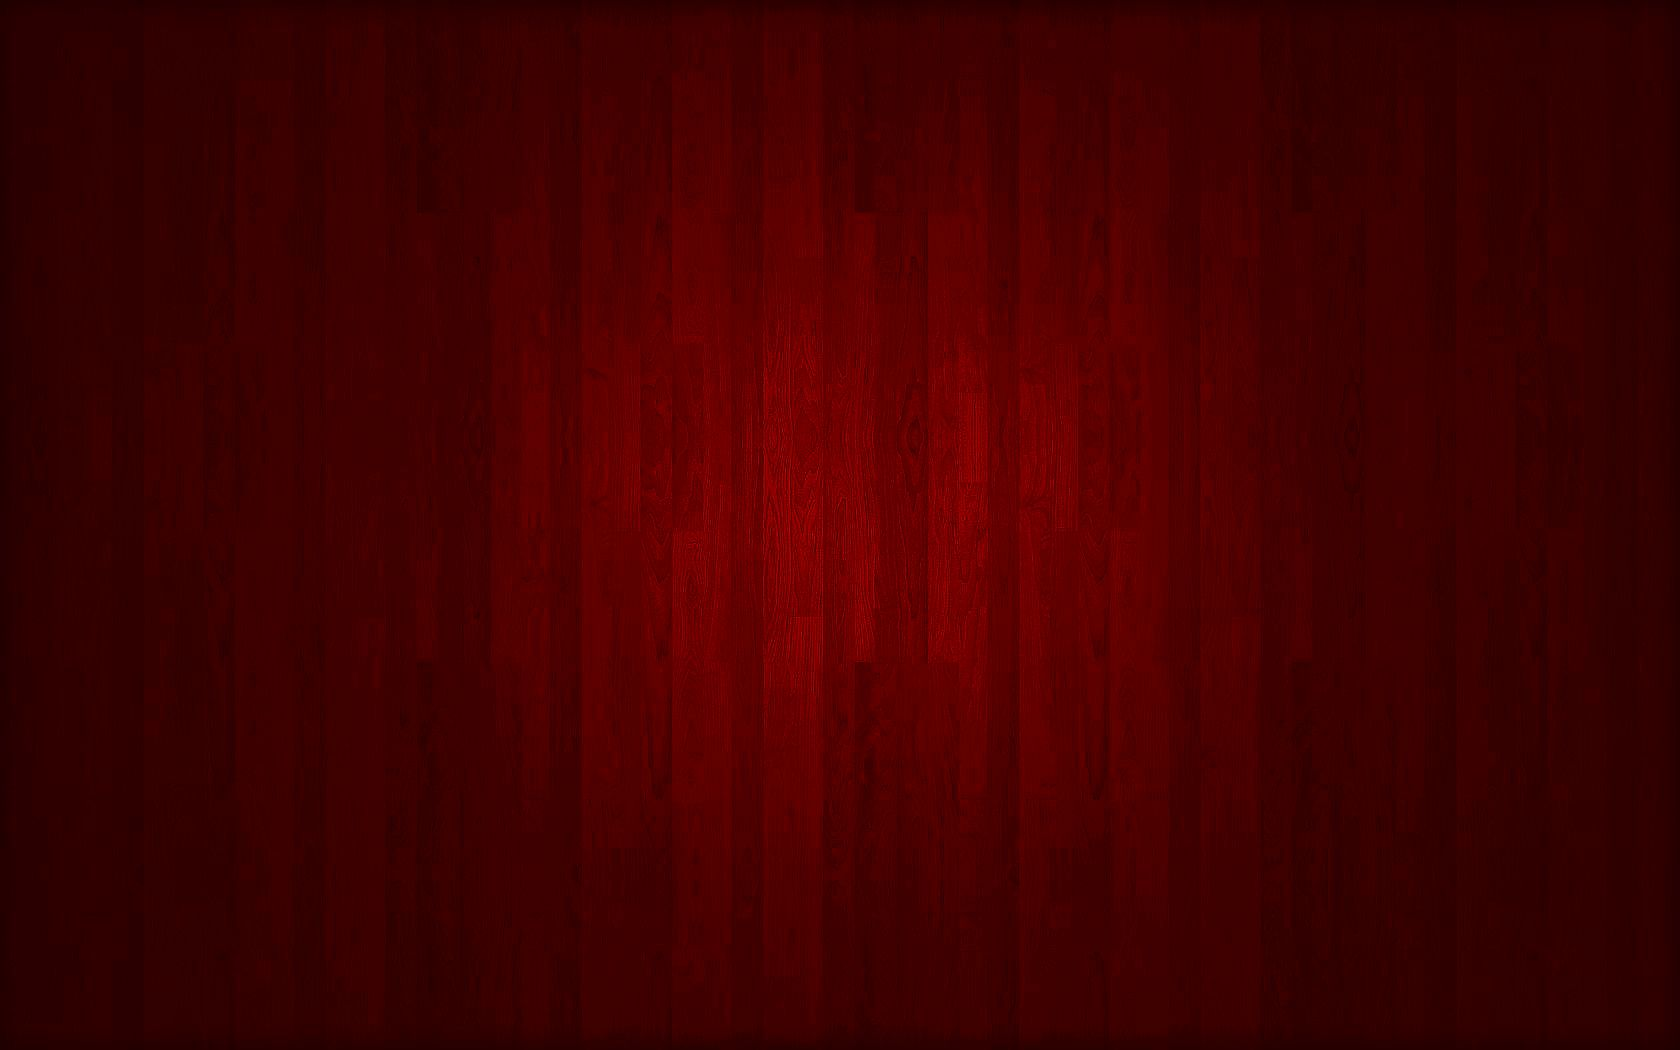
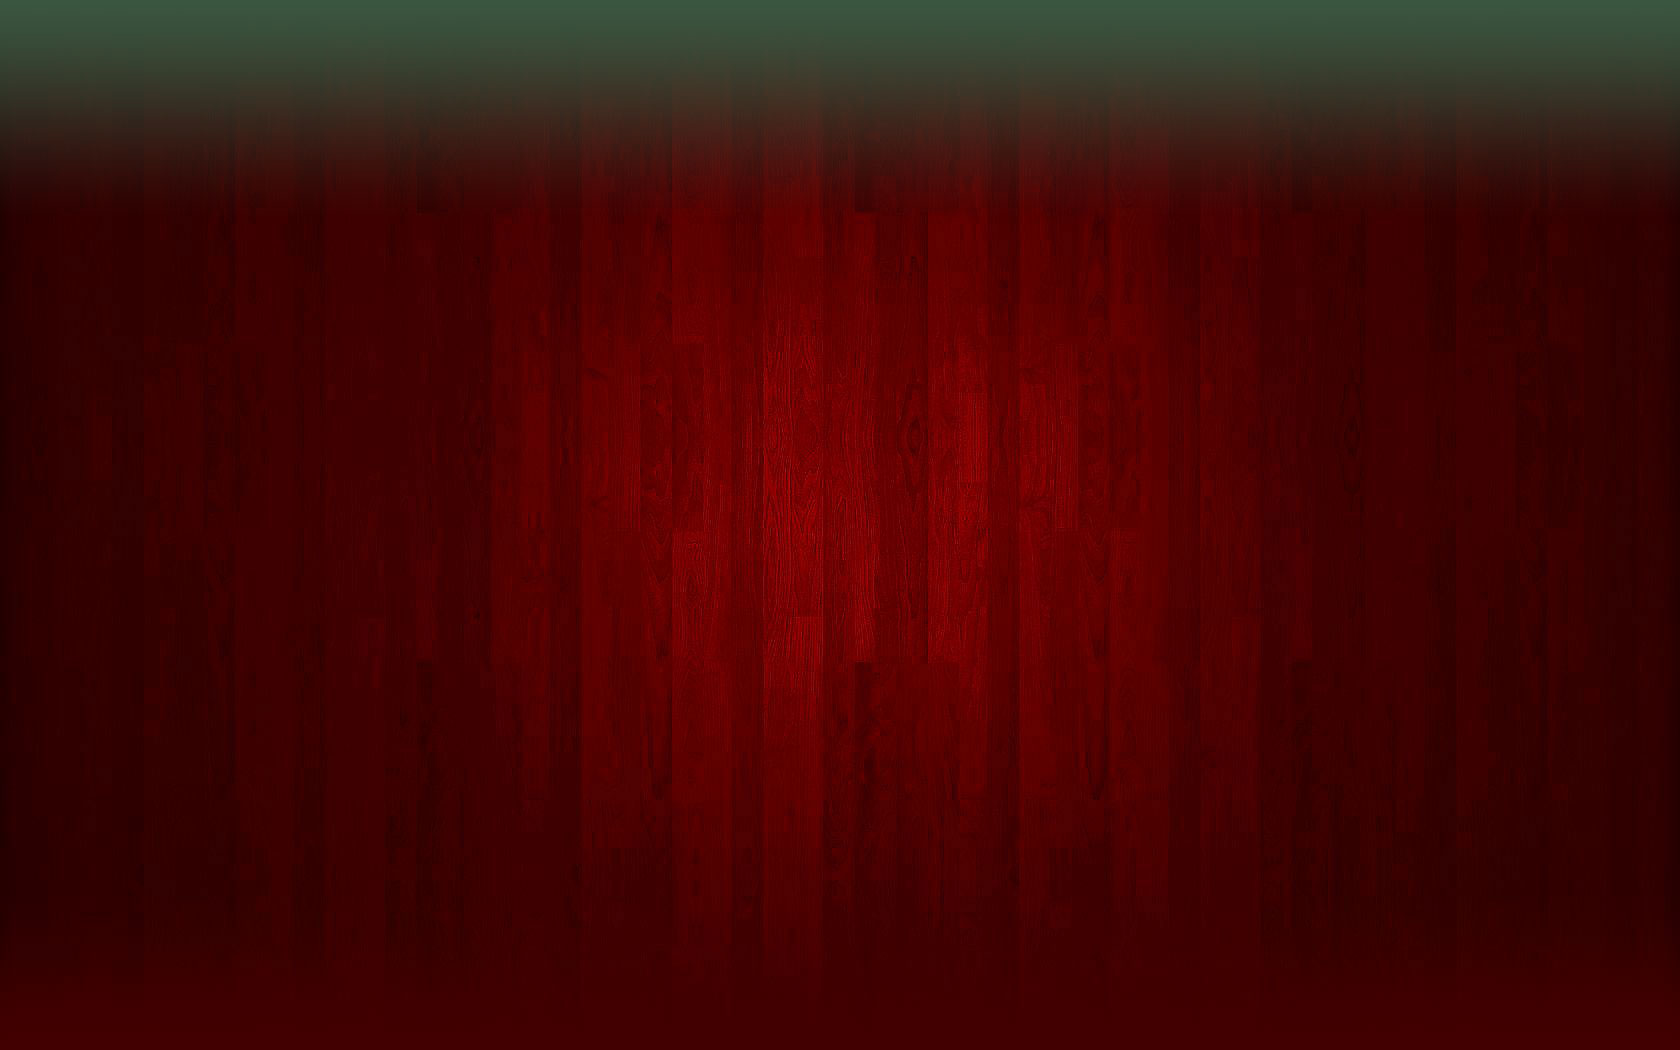
Fondos modificados, degradado

Changed region(s): [[0.0, 0.0, 1.0, 0.1524], [0.7429, 0.9448, 1.0, 1.0], [0.0, 0.9752, 0.3095, 1.0]]

diff --git a/css/main.css b/css/main.css
@@ -175,7 +175,7 @@ section>h2{
 }
 /* -----------------SEGUNDO BLOQUE NOVEDADES-----------------  */
 #novedades{
-	background-image: url("../img/fondo2.png");
+	background-image: url("../img/fondo2.jpg");
 	background-repeat: no-repeat;
 	background-position: center;
 	background-size: 100% 100%;
